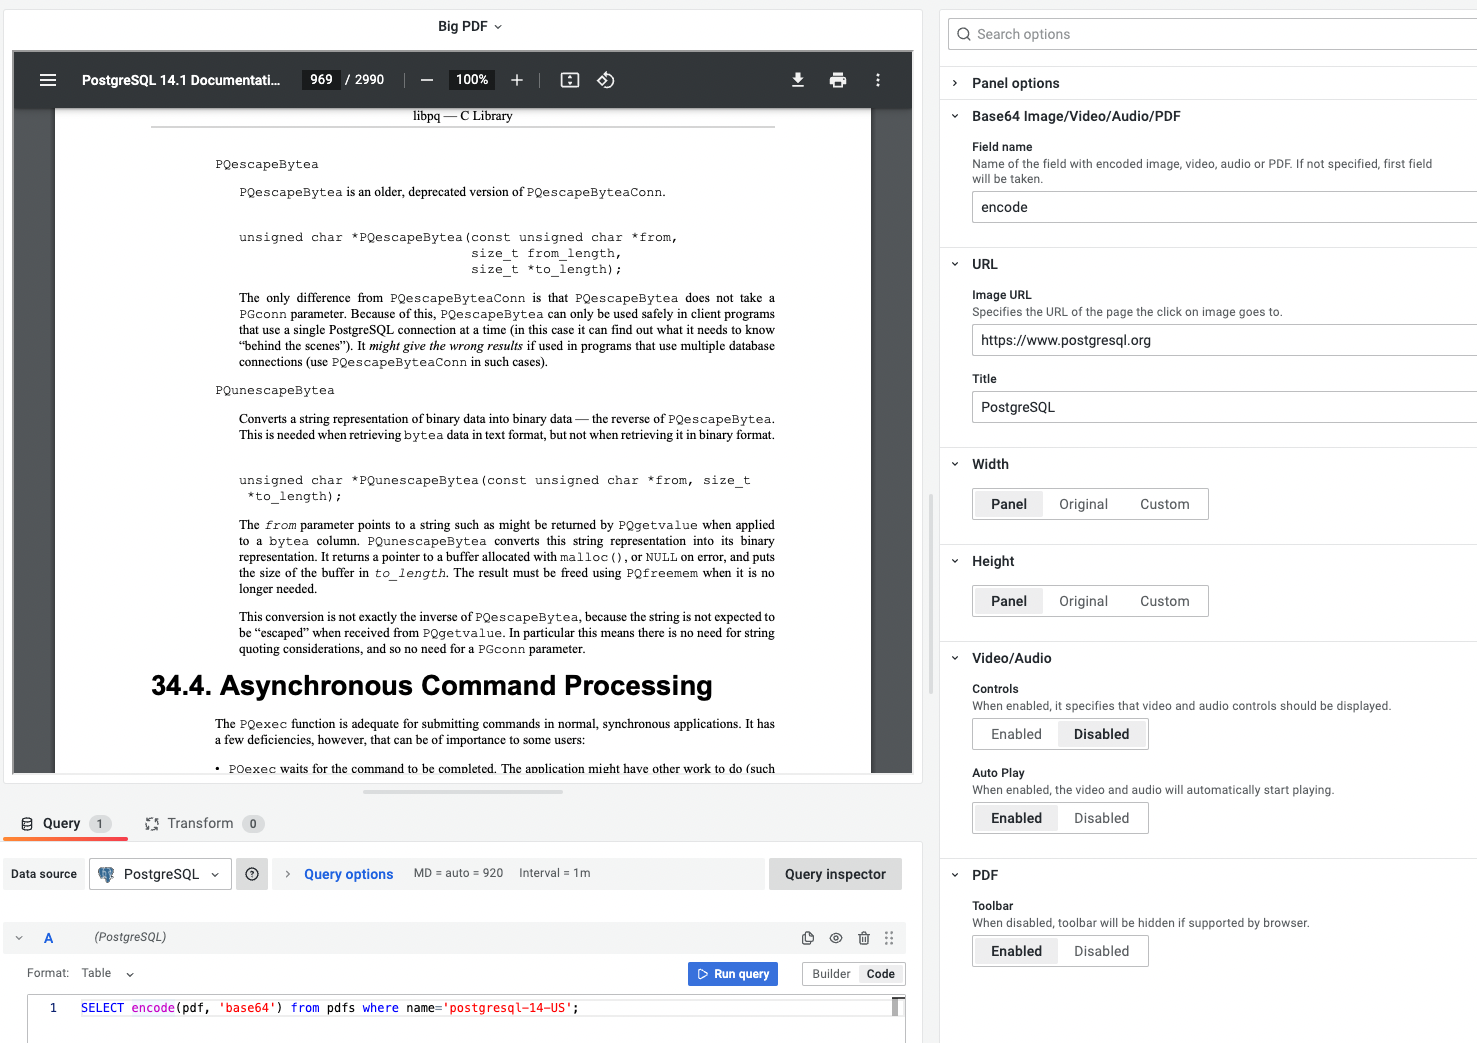
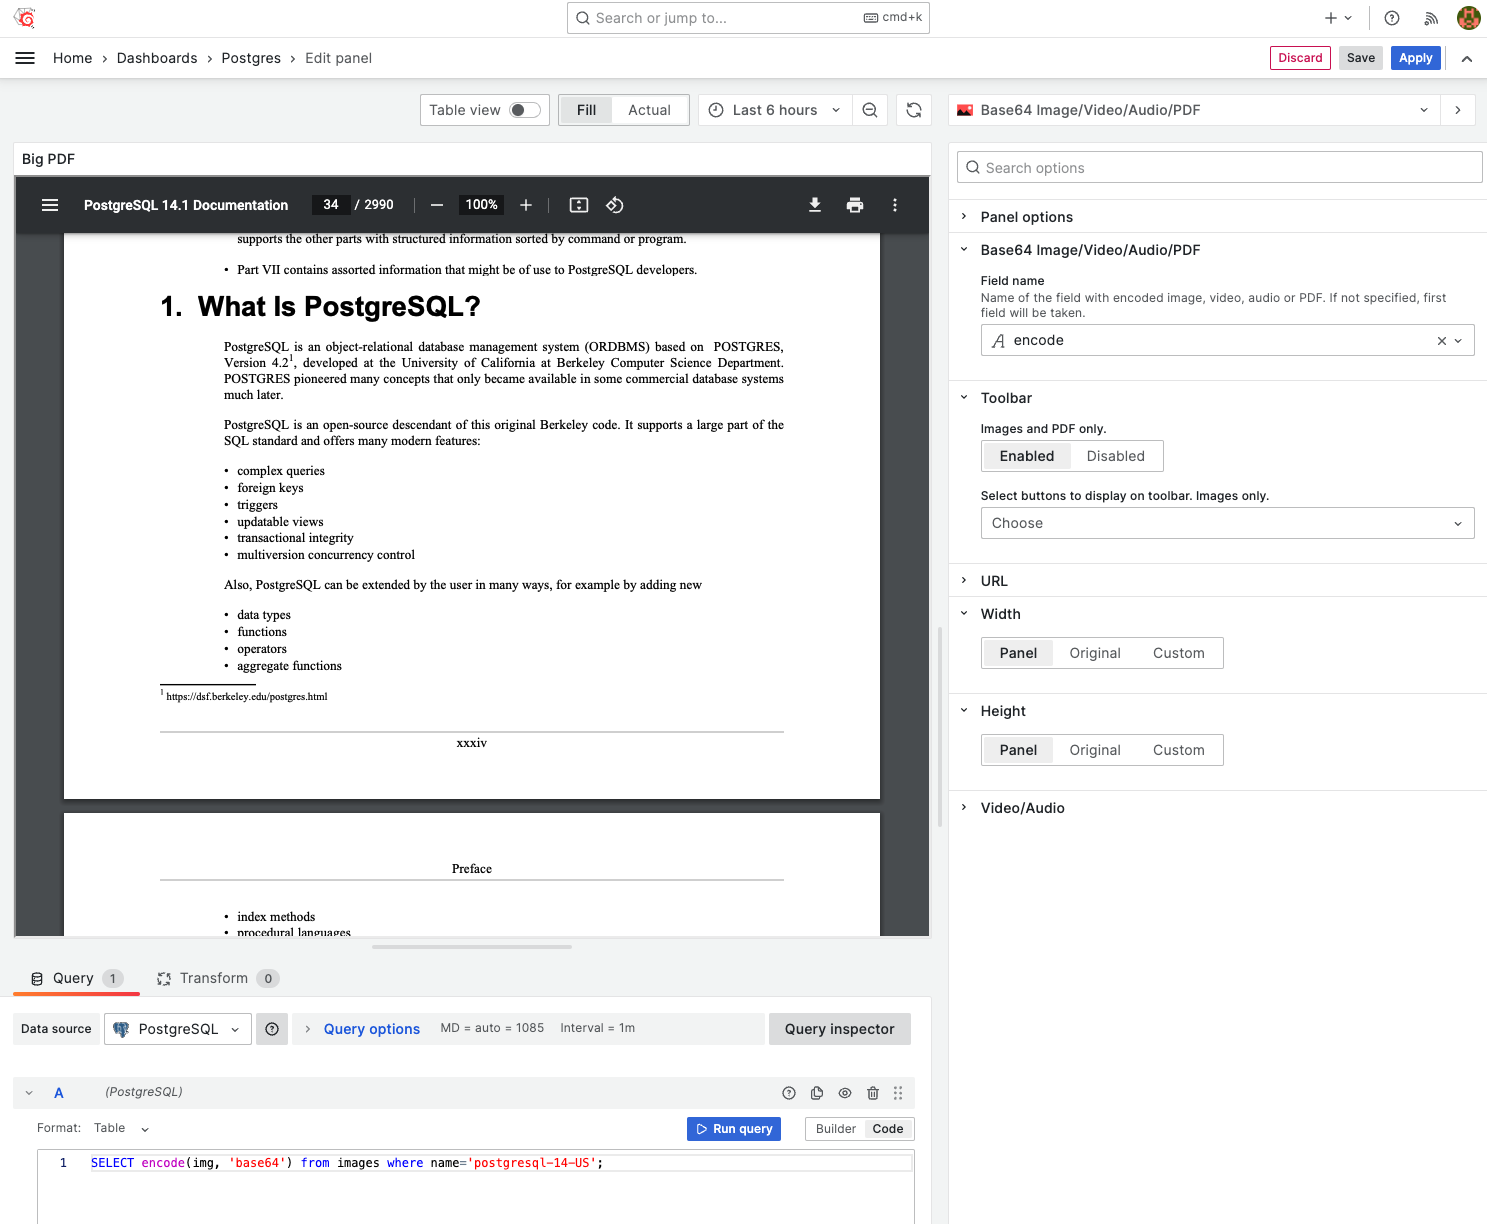
Add Base64 Toolbar (#409)

diff --git a/config/sidebar/community.js b/config/sidebar/community.js
@@ -67,6 +67,7 @@ const community = {
         {
           items: [
             "volkovlabs-image-panel/datasources",
+            "volkovlabs-image-panel/toolbar",
             "volkovlabs-image-panel/variables",
           ],
           label: "Features",
